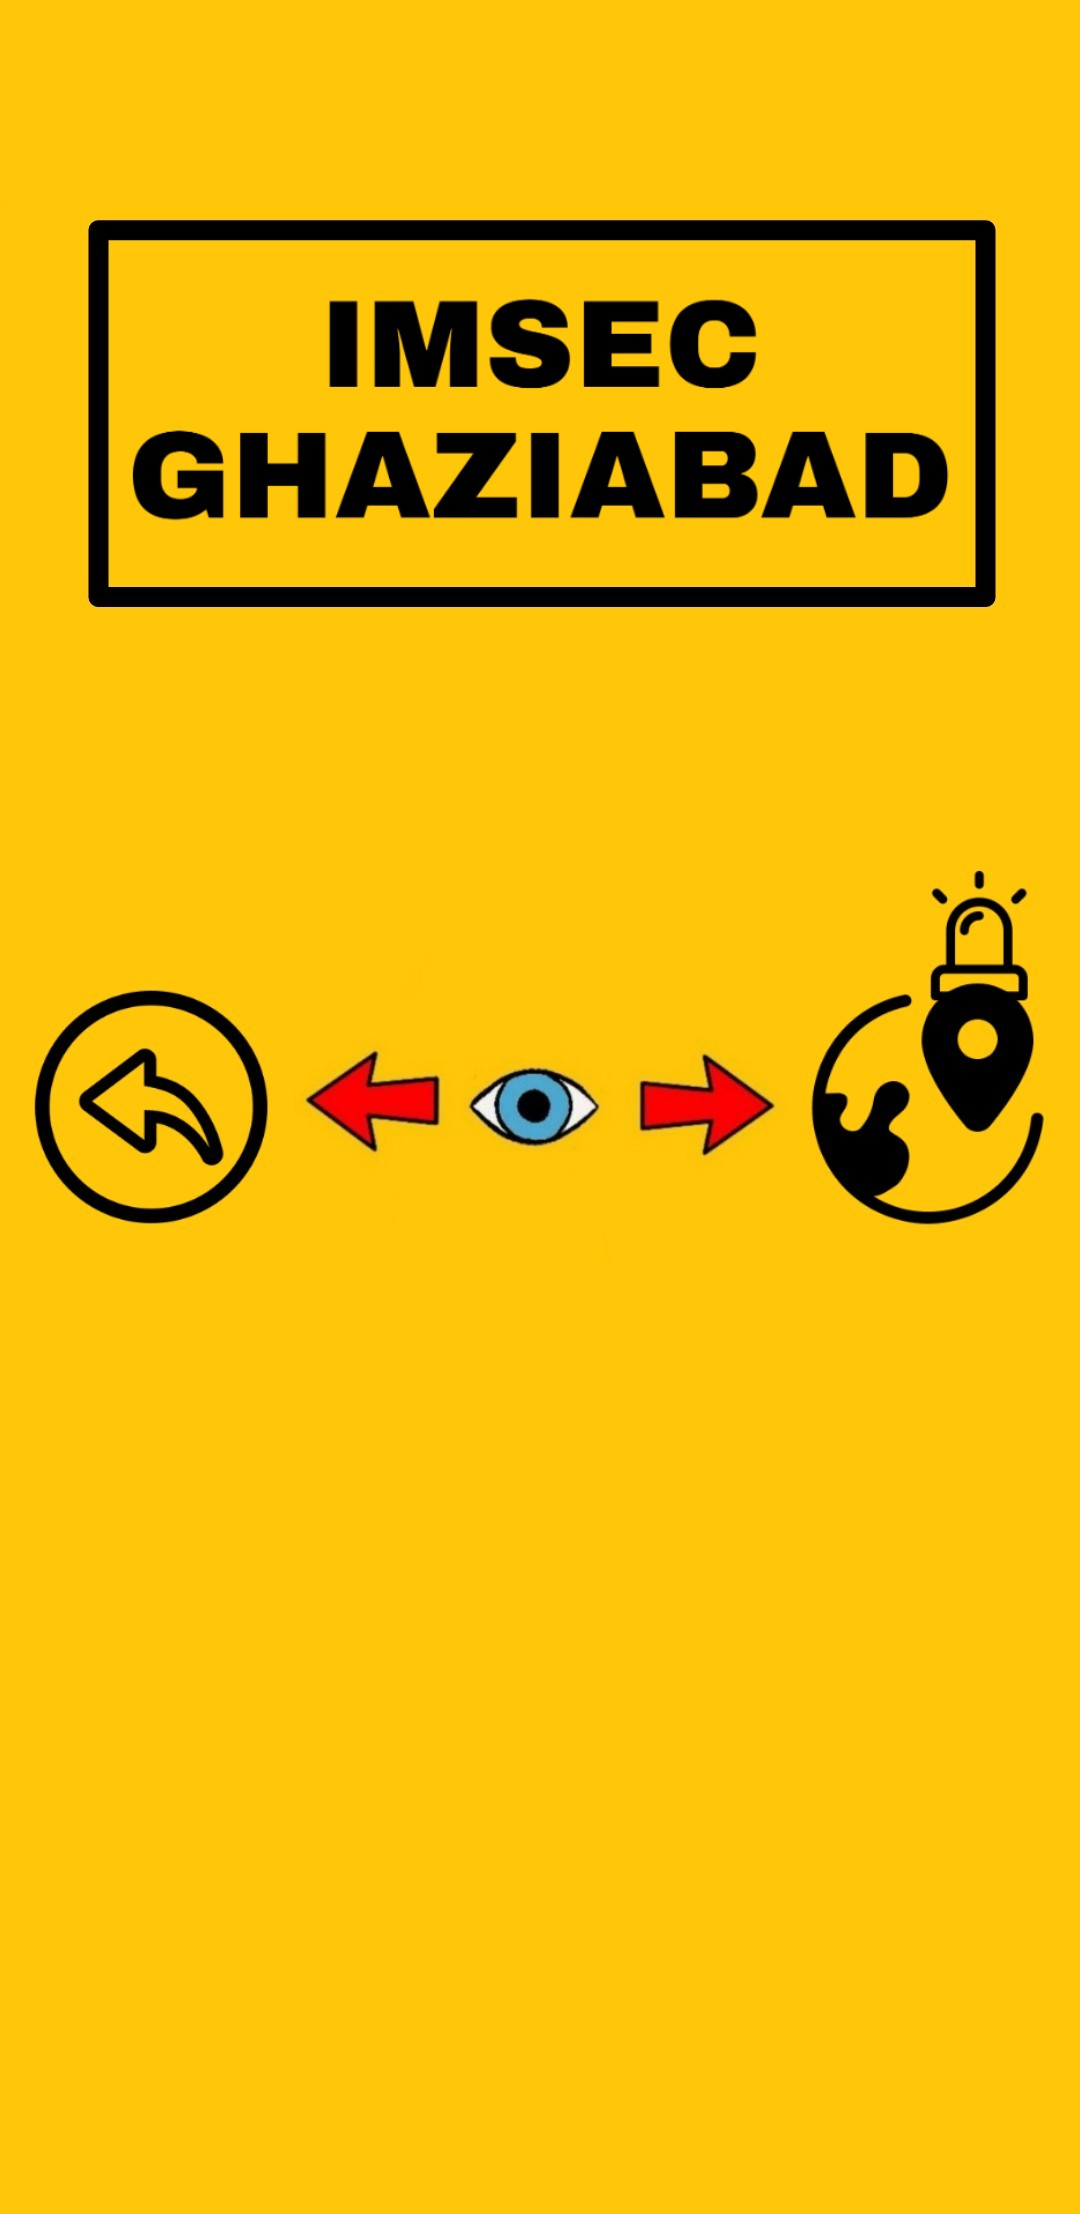
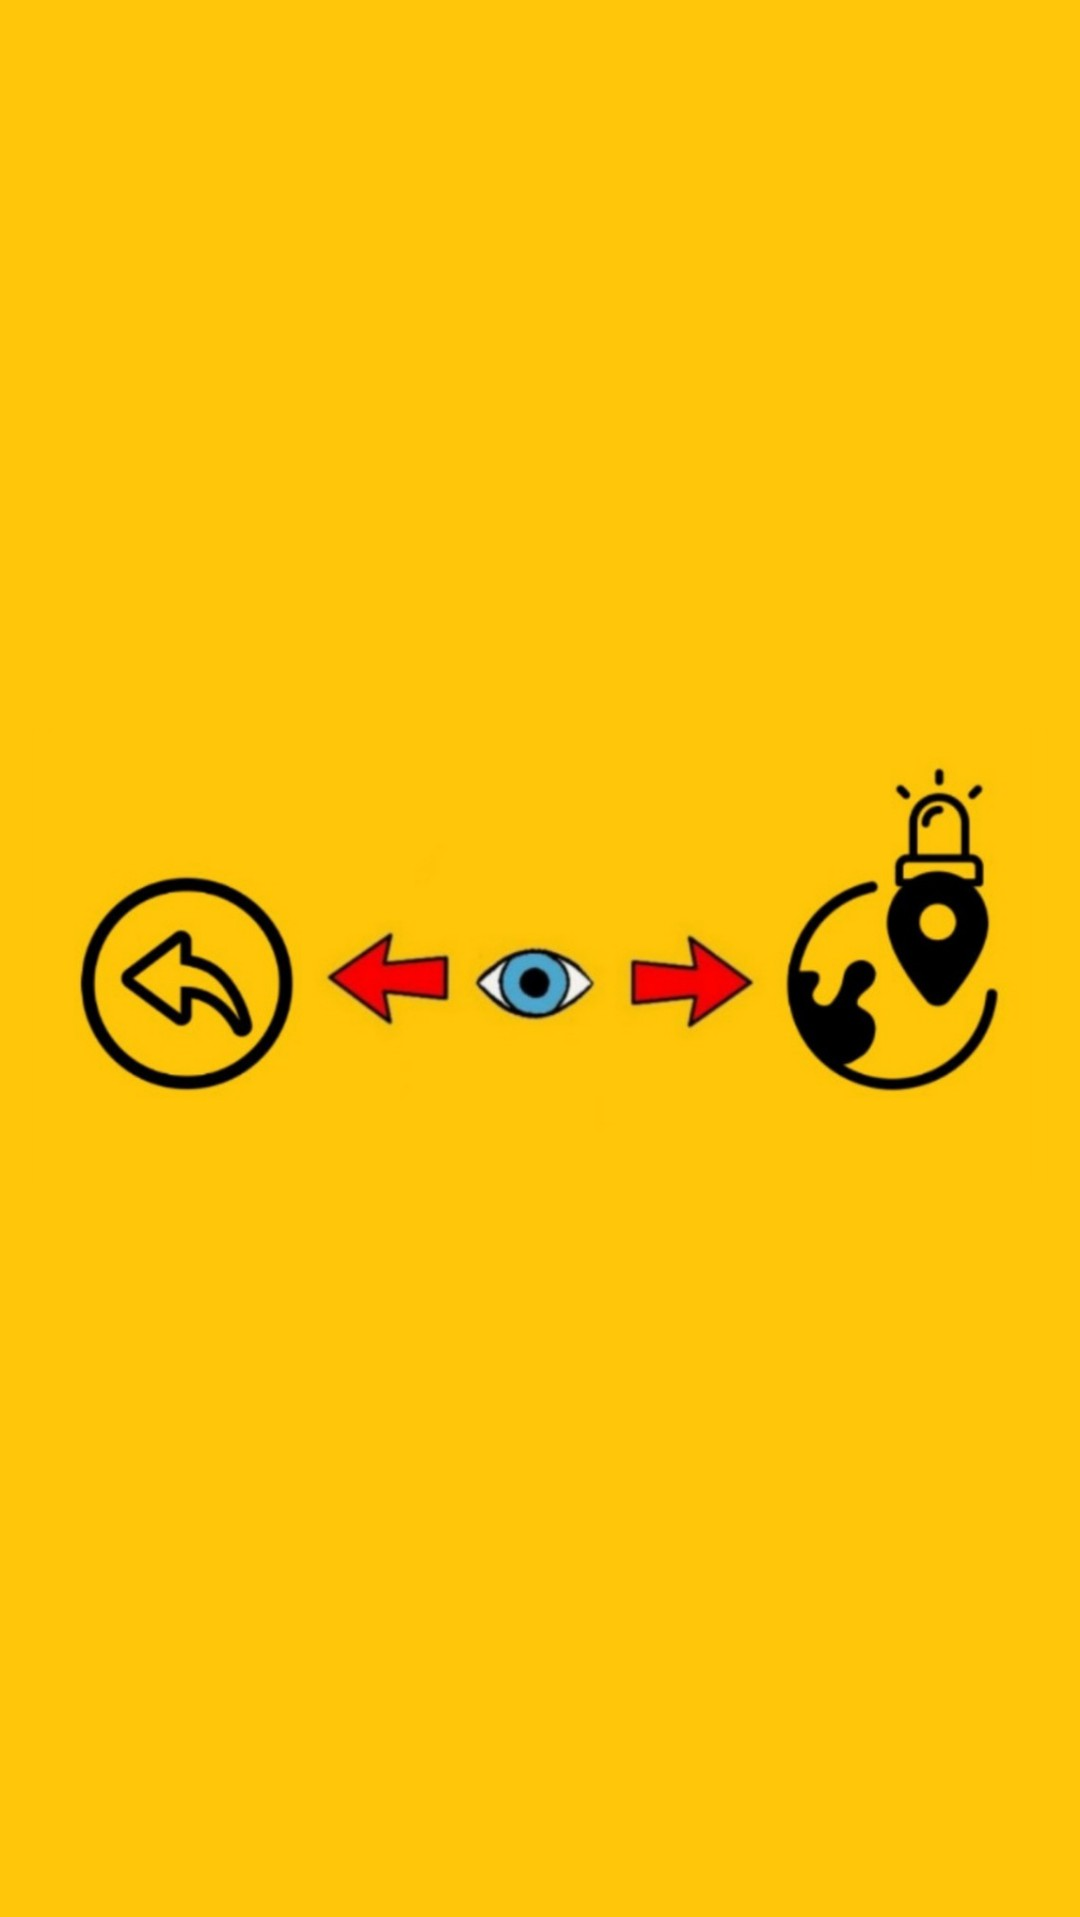
added location

Changed region(s): [[0.0611, 0.0923, 0.9472, 0.277], [0.0306, 0.4309, 0.55, 0.5848], [0.5806, 0.4001, 0.9778, 0.5848]]

diff --git a/lib/emergencylocation.dart b/lib/emergencylocation.dart
@@ -1,64 +1,110 @@
 import 'package:flutter/material.dart';
 import 'package:swipedetector/swipedetector.dart';
-import 'package:vibration/vibration.dart';
 import 'package:flutter_tts/flutter_tts.dart';
+import 'package:vibration/vibration.dart';
+import 'package:location/location.dart';
+import 'package:flutter/services.dart';
+import 'dart:async';
 class emergencyLocation extends StatefulWidget {
   @override
   _emergencyLocationState createState() => _emergencyLocationState();
 }
-
 class _emergencyLocationState extends State<emergencyLocation> {
   FlutterTts flutterTts=FlutterTts();
+  Map<String,double> currentLocation=new Map();
+  StreamSubscription<Map<String,double>> locationSubscription;
+  Location location=new Location();
+  void initState(){
+    super.initState();
+    currentLocation['latitude'] = 0.0;
+    currentLocation['longitude'] = 0.0;
+    
+    initPlatformState();
+    locationSubscription=location.onLocationChanged().listen((Map<String,double>result){
+      setState(() {
+        currentLocation=result;
+      });
+    }); 
+      }
+      String error;
   @override
   void vibrate()
   {
      Vibration.vibrate(pattern: [200, 100, 200, 100]);
   }
   Future _speakleft() async{
-    await flutterTts.speak("Location");
+    await flutterTts.speak("home menu");
   }
-  Widget build(BuildContext context) {
-    return Scaffold(
-      body: SwipeDetector( 
-        child: Container(
-          decoration: BoxDecoration(
-              image: DecorationImage(
-                  image: AssetImage("assets/images/comingsoon.jpg"),
-                  fit: BoxFit.cover,
-          ),
-        ),
-        ),
-            // child: Image.asset('assets/images/Home.jpg'),
-            onSwipeUp: () {
-              setState(() {
-                // _swipeDirection = "Swipe Up";
-              });
-            },
-            onSwipeDown: () {
-              setState(() {
-                // _swipeDirection = "Swipe Down";
-              });
-            },
-            onSwipeLeft: () {
-              vibrate();
-              _speakleft();
-              setState(() {
-                 Navigator.pop(context);
-              });
-            },
-            onSwipeRight: () {
-              setState(() {
-                // _swipeDirection = "Swipe Right";
-              });
-            },
-            swipeConfiguration: SwipeConfiguration(
-        verticalSwipeMinVelocity: 100.0,
-        verticalSwipeMinDisplacement: 50.0,
-        verticalSwipeMaxWidthThreshold:100.0,
-        horizontalSwipeMaxHeightThreshold: 50.0,
-        horizontalSwipeMinDisplacement:50.0,
-        horizontalSwipeMinVelocity: 200.0),
-          ),
-        );
+  Future _speakright() async{
+    await flutterTts.speak("emergency location sent to Harshit Gupta");
   }
+  Widget build(BuildContext context) {return Scaffold(
+          body:new Container(
+        child: SwipeDetector( 
+          child: Container(
+            alignment: Alignment.topCenter,
+            child: new Text('\n${currentLocation['latitude']}/${currentLocation['longitude']}',style: TextStyle(
+              fontSize: 70,
+              fontWeight: FontWeight.bold,
+            ),),
+            decoration: BoxDecoration(
+                image: DecorationImage(
+                    image: AssetImage("assets/images/location.jpg"),
+                    fit: BoxFit.cover,
+            ),
+          ),
+          ),
+              // child: Image.asset('assets/images/Home.jpg'),
+              onSwipeUp: () {
+                setState(() {
+                  // _swipeDirection = "Swipe Up";
+                });
+              },
+              onSwipeDown: () {
+                setState(() {
+                  // _swipeDirection = "Swipe Down";
+                });
+              },
+              onSwipeLeft: () {
+                vibrate();
+                _speakleft();
+                setState(() {
+                   Navigator.pop(context);
+                });
+              },
+              onSwipeRight: () {
+                vibrate();
+                _speakright();
+                setState(() {
+                  Navigator.push(context, MaterialPageRoute(builder: (context)=>emergencyLocation()));
+                  // _swipeDirection = "Swipe Right";
+                });
+              },
+              swipeConfiguration: SwipeConfiguration(
+          verticalSwipeMinVelocity: 100.0,
+          verticalSwipeMinDisplacement: 50.0,
+          verticalSwipeMaxWidthThreshold:100.0,
+          horizontalSwipeMaxHeightThreshold: 50.0,
+          horizontalSwipeMinDisplacement:50.0,
+          horizontalSwipeMinVelocity: 200.0),
+            ),
+          ),
+    );
+  }
+  void initPlatformState() async {
+        Map<String,double> my_location;
+        try{
+          my_location=await location.getLocation();
+          error="";
+        }on PlatformException catch(e){
+          if(e.code == 'PERMISSION_DENIED')
+          error= 'Permission Denied';
+          else if(e.code== 'PERMISSION_DENIED_NEVER_ASK')
+          error= 'permission denied by user';
+          my_location=null;  
+        }
+        setState(() {
+          currentLocation=my_location;
+        });
+      }
 }

diff --git a/lib/location.dart b/lib/location.dart
@@ -3,13 +3,31 @@ import 'package:swipedetector/swipedetector.dart';
 import 'emergencylocation.dart';
 import 'package:flutter_tts/flutter_tts.dart';
 import 'package:vibration/vibration.dart';
+import 'package:location/location.dart';
+import 'package:flutter/services.dart';
+import 'dart:async';
 class location extends StatefulWidget {
   @override
   _locationState createState() => _locationState();
 }
-
 class _locationState extends State<location> {
   FlutterTts flutterTts=FlutterTts();
+  Map<String,double> currentLocation=new Map();
+  StreamSubscription<Map<String,double>> locationSubscription;
+  Location location=new Location();
+  void initState(){
+    super.initState();
+    currentLocation['latitude'] = 0.0;
+    currentLocation['longitude'] = 0.0;
+    
+    initPlatformState();
+    locationSubscription=location.onLocationChanged().listen((Map<String,double>result){
+      setState(() {
+        currentLocation=result;
+      });
+    }); 
+      }
+      String error;
   @override
   void vibrate()
   {
@@ -21,52 +39,73 @@ class _locationState extends State<location> {
   Future _speakright() async{
     await flutterTts.speak("emergency location sent to Harshit Gupta");
   }
-  Widget build(BuildContext context) {
-    return Scaffold(
-      body: SwipeDetector( 
-        child: Container(
-          decoration: BoxDecoration(
-              image: DecorationImage(
-                  image: AssetImage("assets/images/location.jpg"),
-                  fit: BoxFit.cover,
+  Widget build(BuildContext context) {return Scaffold(
+          body:new Container(
+        child: SwipeDetector( 
+          child: Container(
+            alignment: Alignment.topCenter,
+            child: new Text('\n${currentLocation['latitude']}/${currentLocation['longitude']}',style: TextStyle(
+              fontSize: 70,
+              fontWeight: FontWeight.bold,
+            ),),
+            decoration: BoxDecoration(
+                image: DecorationImage(
+                    image: AssetImage("assets/images/location.jpg"),
+                    fit: BoxFit.cover,
+            ),
           ),
-        ),
-        ),
-            // child: Image.asset('assets/images/Home.jpg'),
-            onSwipeUp: () {
-              
-              setState(() {
-                // _swipeDirection = "Swipe Up";
-              });
-            },
-            onSwipeDown: () {
-              setState(() {
-                // _swipeDirection = "Swipe Down";
-              });
-            },
-            onSwipeLeft: () {
-              vibrate();
-              _speakleft();
-              setState(() {
-                Navigator.pop(context);
-              });
-            },
-            onSwipeRight: () {
-              vibrate();
-              _speakright();
-              setState(() {
-                Navigator.push(context, MaterialPageRoute(builder: (context) =>emergencyLocation()));
-                // _swipeDirection = "Swipe Right";
-              });
-            },
-            swipeConfiguration: SwipeConfiguration(
-        verticalSwipeMinVelocity: 100.0,
-        verticalSwipeMinDisplacement: 50.0,
-        verticalSwipeMaxWidthThreshold:100.0,
-        horizontalSwipeMaxHeightThreshold: 50.0,
-        horizontalSwipeMinDisplacement:50.0,
-        horizontalSwipeMinVelocity: 200.0),
           ),
-        );
+              // child: Image.asset('assets/images/Home.jpg'),
+              onSwipeUp: () {
+                setState(() {
+                  // _swipeDirection = "Swipe Up";
+                });
+              },
+              onSwipeDown: () {
+                setState(() {
+                  // _swipeDirection = "Swipe Down";
+                });
+              },
+              onSwipeLeft: () {
+                vibrate();
+                _speakleft();
+                setState(() {
+                   Navigator.pop(context);
+                });
+              },
+              onSwipeRight: () {
+                vibrate();
+                _speakright();
+                setState(() {
+                  Navigator.push(context, MaterialPageRoute(builder: (context)=>emergencyLocation()));
+                  // _swipeDirection = "Swipe Right";
+                });
+              },
+              swipeConfiguration: SwipeConfiguration(
+          verticalSwipeMinVelocity: 100.0,
+          verticalSwipeMinDisplacement: 50.0,
+          verticalSwipeMaxWidthThreshold:100.0,
+          horizontalSwipeMaxHeightThreshold: 50.0,
+          horizontalSwipeMinDisplacement:50.0,
+          horizontalSwipeMinVelocity: 200.0),
+            ),
+          ),
+    );
   }
+  void initPlatformState() async {
+        Map<String,double> my_location;
+        try{
+          my_location=await location.getLocation();
+          error="";
+        }on PlatformException catch(e){
+          if(e.code == 'PERMISSION_DENIED')
+          error= 'Permission Denied';
+          else if(e.code== 'PERMISSION_DENIED_NEVER_ASK')
+          error= 'permission denied by user';
+          my_location=null;  
+        }
+        setState(() {
+          currentLocation=my_location;
+        });
+      }
 }
